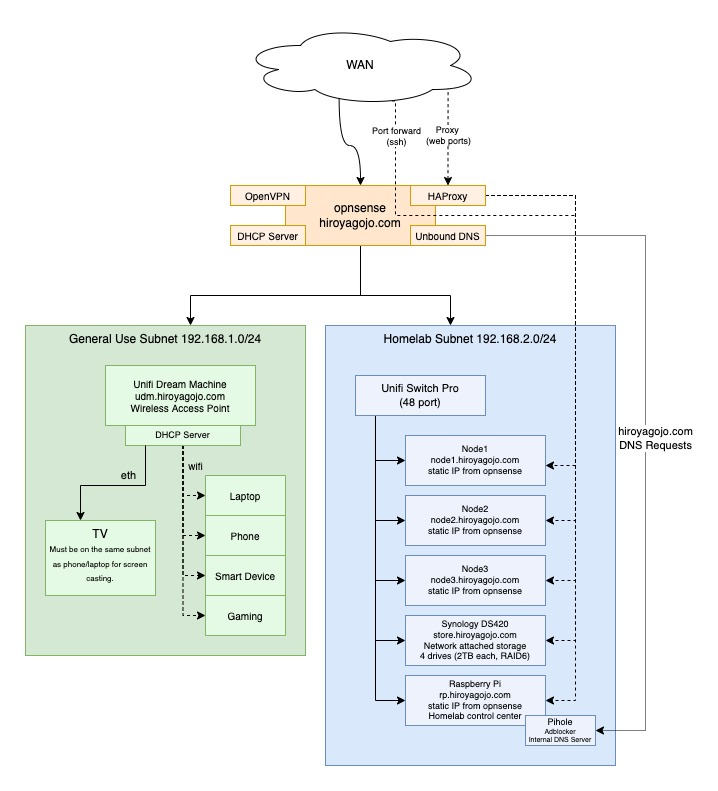
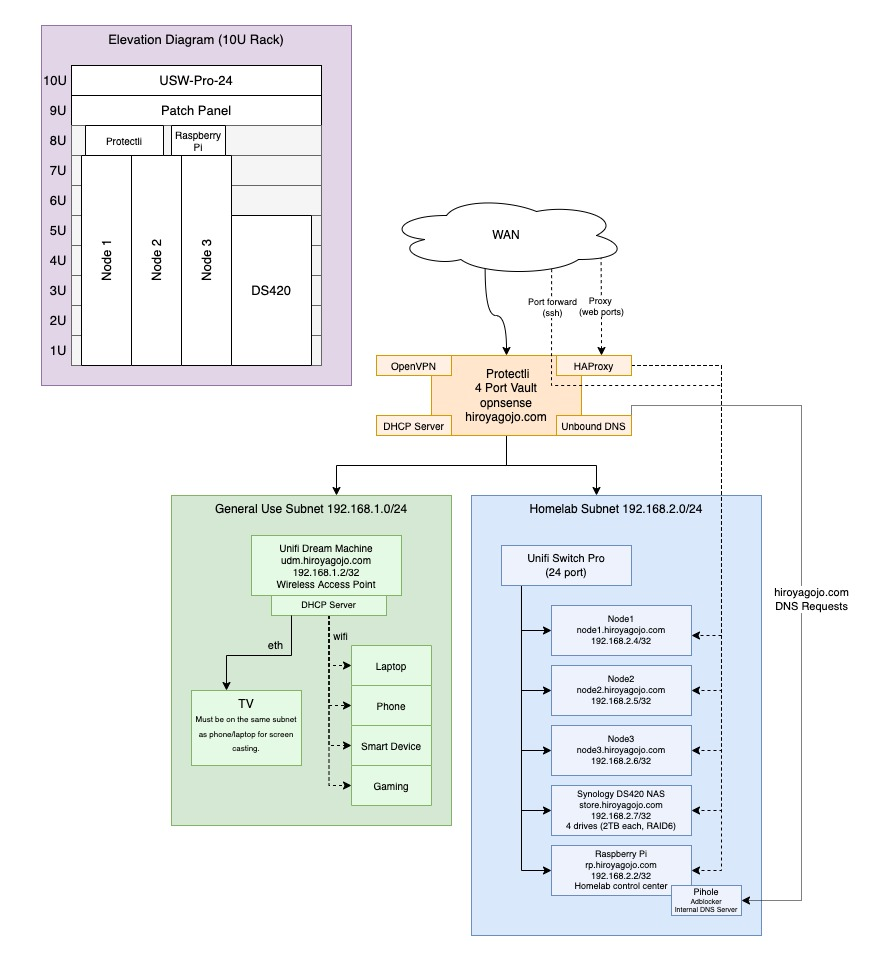
Update homelab diagram

diff --git a/README.md b/README.md
@@ -1,5 +1,5 @@
-# Homelab
+# HG Homelab
 
-Homelab configurations and setup.
+Homelab configurations and setup using Ansible.
 
 ![Homelab](homelab.jpg)
